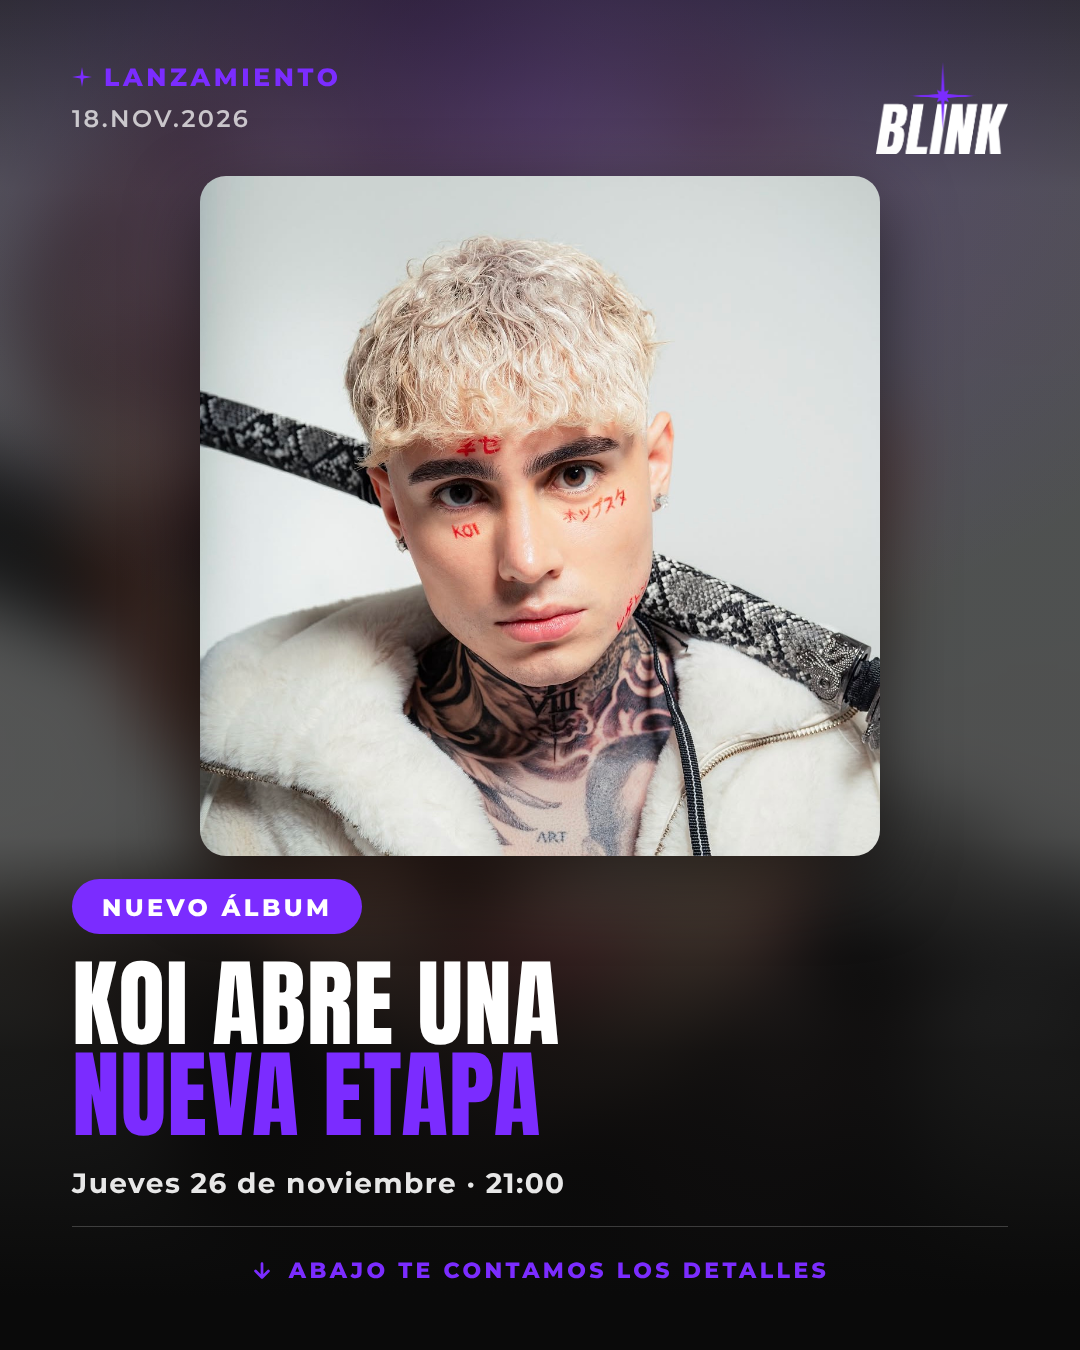
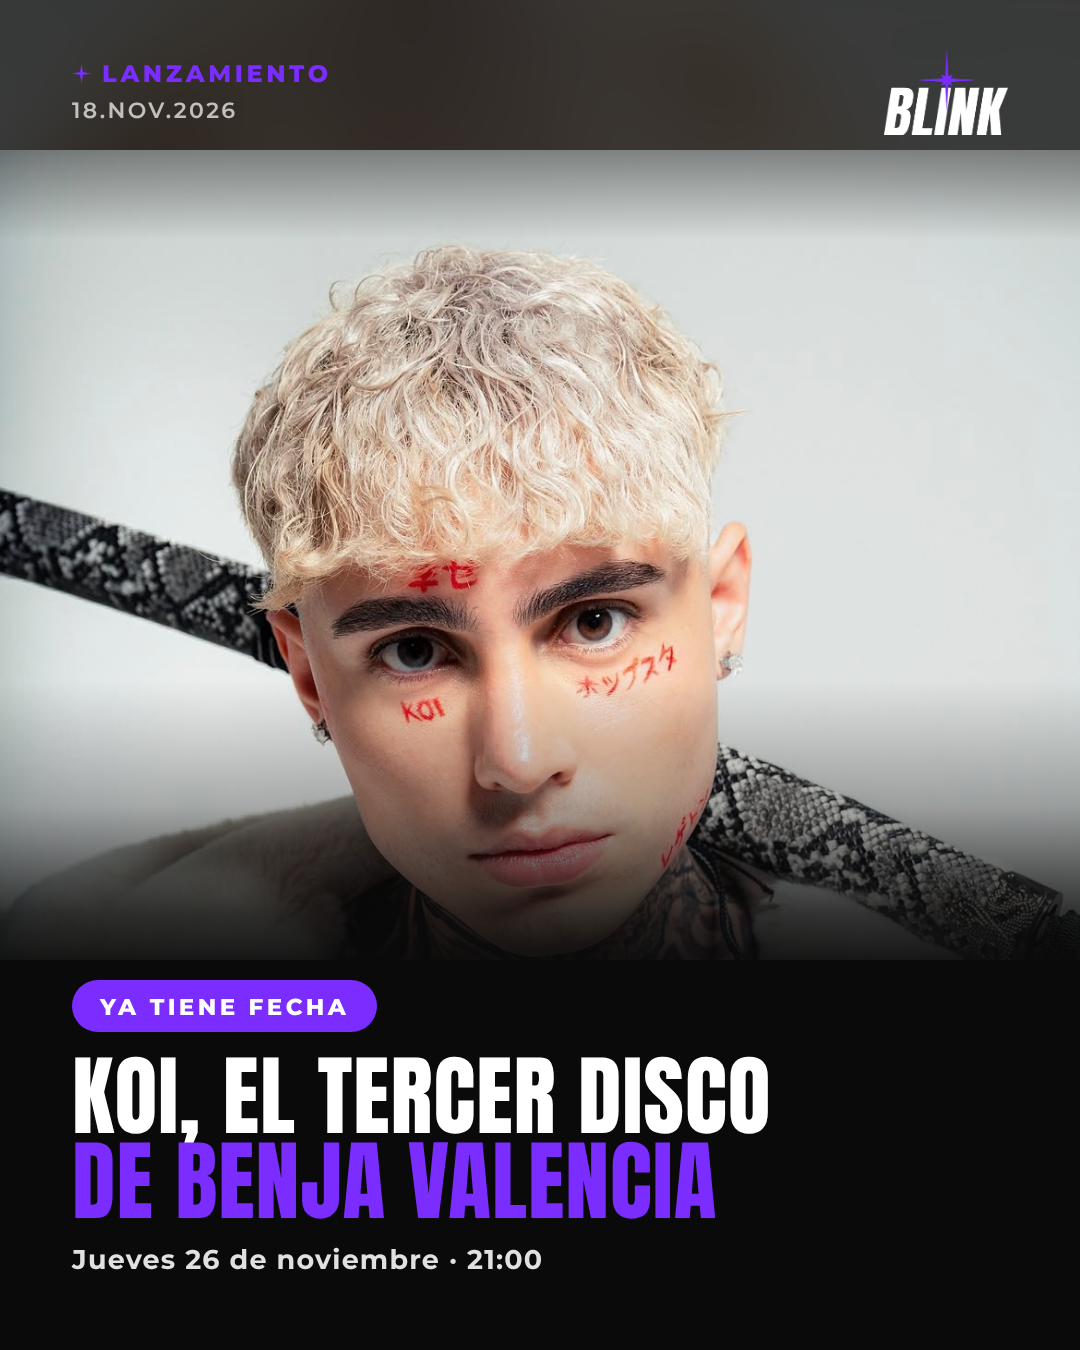
KOI: la foto manda y el titular suena a anuncio
Mia devolvió la primera versión por dos cosas: el bloque de texto tapaba la
imagen, y "KOI abre una nueva etapa" se leía como si el disco ya hubiera salido.
El retrato pasa a ocupar dos tercios del lienzo a todo el ancho, el texto se
reduce a píldora, titular y una línea de fecha, y el titular pasa a nominal con
el nombre del artista dentro.

Claude-Session: https://claude.ai/code/session_01NF4PN4Z1tGA2GQg6PseM5W

diff --git a/benja-koi-feed.html b/benja-koi-feed.html
@@ -14,84 +14,84 @@
     font-family:"Montserrat", sans-serif;
   }
 
-  /* La portada es casi cuadrada y la cara ocupa el centro, así que a sangre el
-     titular se la come. Va enmarcada arriba y el texto abajo, igual que en una
-     lámina, y el fondo es la misma foto ampliada y desenfocada para que la
-     gráfica se lea como una pieza y no como una foto pegada sobre negro. */
+  /* La foto manda: ocupa todo el ancho y dos tercios del alto. El texto vive
+     abajo, en su propia zona, y no le pisa nada. Arriba queda una banda para
+     el encabezado, porque el fondo de la foto es gris claro y el logo blanco
+     ahí no se leería. */
   .fondo{ position:absolute; inset:0; overflow:hidden; }
   .fondo img{
-    position:absolute; left:50%; top:50%; transform:translate(-50%,-50%) scale(1.35);
+    position:absolute; left:50%; top:50%; transform:translate(-50%,-50%) scale(1.4);
     width:1080px; height:1350px; object-fit:cover;
-    filter:blur(26px) brightness(.62) saturate(1.1);
+    filter:blur(30px) brightness(.26) saturate(1.2);
   }
-  .velo{
-    position:absolute; inset:0;
-    background:
-      radial-gradient(120% 70% at 50% 8%, rgba(123,44,255,.20) 0%, rgba(10,10,10,0) 60%),
-      linear-gradient(180deg,
-        rgba(10,10,10,.72) 0%, rgba(10,10,10,.46) 14%,
-        rgba(10,10,10,.46) 62%, rgba(10,10,10,.88) 78%, var(--negro) 96%);
+
+  .retrato{ position:absolute; z-index:2; left:0; right:0; top:150px; height:830px;
+            overflow:hidden; }
+  /* El encuadre no va a ojo: la foto mide 1170x1163 y a ancho completo escala
+     0,923, así que la cabeza queda entre y=78 y y=729 y entra entera con aire. */
+  .retrato img{ width:1080px; height:1073px; object-fit:cover; object-position:50% 0%;
+                display:block; }
+  .retrato .base{
+    position:absolute; left:0; right:0; bottom:0; height:300px;
+    background:linear-gradient(180deg, rgba(10,10,10,0) 0%, rgba(10,10,10,.30) 42%,
+      rgba(10,10,10,.82) 78%, var(--negro) 100%);
+  }
+  .retrato .tope{
+    position:absolute; left:0; right:0; top:0; height:90px;
+    background:linear-gradient(180deg, rgba(10,10,10,.42) 0%, rgba(10,10,10,0) 100%);
   }
 
   /* ------------------------------------------------------- encabezado */
-  .cabecera{ position:absolute; z-index:3; top:62px; left:72px; right:72px;
-             display:flex; align-items:flex-start; justify-content:space-between; }
-  .categoria{ display:flex; align-items:center; gap:12px;
-              font-weight:800; font-size:25px; letter-spacing:3.6px;
-              color:var(--morado); text-transform:uppercase; }
-  .fecha{ margin-top:12px; font-weight:600; font-size:24px; letter-spacing:2.4px;
-          color:rgba(255,255,255,.72); }
-  .cabecera img{ width:132px; display:block; }
+  .piso{ position:absolute; z-index:3; left:0; right:0; top:960px; bottom:0;
+         background:var(--negro); }
 
-  /* ------------------------------------------------------------ foto */
-  .marco{
-    position:absolute; z-index:3; left:200px; top:176px;
-    width:680px; height:680px; border-radius:26px; overflow:hidden;
-    box-shadow:0 26px 70px rgba(0,0,0,.55);
-  }
-  .marco img{ width:100%; height:100%; object-fit:cover; object-position:50% 46%; }
+  .cabecera{ position:absolute; z-index:4; top:48px; left:72px; right:72px;
+             display:flex; align-items:center; justify-content:space-between; }
+  .categoria{ display:flex; align-items:center; gap:11px;
+              font-weight:800; font-size:24px; letter-spacing:3.6px;
+              color:var(--morado); text-transform:uppercase; }
+  .fecha{ margin-top:9px; font-weight:600; font-size:22px; letter-spacing:2.4px;
+          color:rgba(255,255,255,.70); }
+  .cabecera img{ width:124px; display:block; }
 
   /* ---------------------------------------------------------- bloque */
-  .bloque{ position:absolute; z-index:3; left:72px; right:72px; bottom:150px; }
+  .bloque{ position:absolute; z-index:4; left:72px; right:72px; bottom:74px; }
   .pildora{
     display:inline-block; background:var(--morado); border-radius:999px;
-    padding:14px 30px 12px;
-    font-weight:800; font-size:24px; letter-spacing:3.4px;
+    padding:13px 28px 11px;
+    font-weight:800; font-size:23px; letter-spacing:3.4px;
     color:var(--blanco); text-transform:uppercase;
   }
   .titular{
-    margin-top:24px;
-    font-family:"Anton", sans-serif; font-size:96px; line-height:.95;
+    margin-top:22px;
+    font-family:"Anton", sans-serif; font-size:88px; line-height:.96;
     letter-spacing:1px; color:var(--blanco); text-transform:uppercase;
   }
   .titular span{ display:block; }
   .titular .morado{ color:var(--morado); }
   .dato{
-    margin-top:26px; font-weight:700; font-size:28px; letter-spacing:1.4px;
-    color:rgba(255,255,255,.90);
+    margin-top:20px; font-weight:700; font-size:27px; letter-spacing:1.2px;
+    color:rgba(255,255,255,.88);
   }
-
-  /* ------------------------------------------------------------- pie */
-  .pie{
-    position:absolute; z-index:3; left:72px; right:72px; bottom:66px;
-    padding-top:30px; border-top:1.5px solid rgba(255,255,255,.20);
-    display:flex; align-items:center; justify-content:center; gap:16px;
-  }
-  .pie span{ font-weight:800; font-size:22px; letter-spacing:3.4px;
-             color:var(--morado); text-transform:uppercase; }
-  .pie svg{ width:22px; height:22px; flex:none; }
 </style>
 </head>
 <body>
 <div class="lamina">
 
   <div class="fondo"><img src="benja-koi-portada.jpg" alt=""></div>
-  <div class="velo"></div>
+
+  <div class="piso"></div>
+
+  <div class="retrato">
+    <img src="benja-koi-portada.jpg" alt="">
+    <div class="tope"></div>
+    <div class="base"></div>
+  </div>
 
   <div class="cabecera">
     <div>
       <div class="categoria">
-        <svg width="20" height="20" viewBox="0 0 24 24" fill="#7B2CFF">
+        <svg width="19" height="19" viewBox="0 0 24 24" fill="#7B2CFF">
           <path d="M12 0 L13.8 10.2 L24 12 L13.8 13.8 L12 24 L10.2 13.8 L0 12 L10.2 10.2 Z"/>
         </svg>
         Lanzamiento
@@ -101,36 +101,26 @@
     <img src="logo-blink.png" alt="Blink">
   </div>
 
-  <div class="marco"><img src="benja-koi-portada.jpg" alt=""></div>
-
   <div class="bloque">
-    <div class="pildora">Nuevo álbum</div>
-    <div class="titular"><span>KOI abre una</span><span class="morado">nueva etapa</span></div>
+    <div class="pildora">Ya tiene fecha</div>
+    <div class="titular"><span>KOI, el tercer disco</span><span class="morado">de Benja Valencia</span></div>
     <div class="dato">Jueves 26 de noviembre · 21:00</div>
-  </div>
-
-  <div class="pie">
-    <svg viewBox="0 0 24 24" fill="none" stroke="#7B2CFF" stroke-width="3"
-         stroke-linecap="round" stroke-linejoin="round">
-      <path d="M12 4 V19 M5 12 L12 19 L19 12"/>
-    </svg>
-    <span>Abajo te contamos los detalles</span>
   </div>
 
 </div>
 
 <script>
 (async function(){
-  await document.fonts.load("96px Anton");
-  await document.fonts.load("800 24px Montserrat");
-  await document.fonts.load("700 28px Montserrat");
+  await document.fonts.load("88px Anton");
+  await document.fonts.load("800 23px Montserrat");
+  await document.fonts.load("700 27px Montserrat");
   await document.fonts.ready;
 
   // Las dos líneas del titular comparten cuerpo: ajustadas por separado, la
   // corta queda grande y la larga achicada, y se nota el escalón.
   const lineas = [...document.querySelectorAll(".titular span")];
-  let t = 96;
-  while (t > 72 && lineas.some(l => l.scrollWidth > 936)){
+  let t = 88;
+  while (t > 62 && lineas.some(l => l.scrollWidth > 936)){
     t -= 2;
     lineas.forEach(l => { l.style.fontSize = t + "px"; });
   }

diff --git a/CLAUDE.md b/CLAUDE.md
@@ -115,6 +115,24 @@ Eso no la vuelve un comunicado. Lo que la separa de una cuenta de noticias:
 - **Nada de adornos que no sean información.** Si una línea solo se sostiene en
   algo que yo vi en una foto, se cae.
 
+### En una gráfica de lanzamiento manda la foto, no el texto
+
+Mia devolvió la primera gráfica de KOI porque el bloque de texto tapaba la imagen.
+El reparto que sí quiso: **el retrato ocupa unos dos tercios del lienzo** y el texto
+vive abajo, en su propia zona negra, compacto — píldora, titular de dos líneas y
+**una sola línea de dato**. La bajada de tres líneas no va: esa información es del
+copy. "La mayoría de la información va a estar en el copy", textual.
+
+**El titular de un anuncio tiene que sonar a anuncio.** "KOI abre una nueva etapa"
+se lee como si el disco ya hubiera salido hoy. Se arregla con un titular nominal que
+diga qué es y de quién —"KOI, el tercer disco de Benja Valencia"— y dejando el aviso
+de que todavía no sale en la píldora: "Ya tiene fecha". Y el nombre del artista entra
+en el titular: sin él, la gráfica no se entiende sola.
+
+**Una foto casi cuadrada con la cara al centro no va a sangre con el titular encima**
+—se la come— ni tampoco achicada con aire negro alrededor. Va a todo el ancho, cortada
+arriba y abajo, con el texto en el negro de abajo.
+
 ### Palabras que Mia ya rechazó
 - "el tipo" (para referirse a un artista)
 - "te acordái" y el voseo chileno marcado
